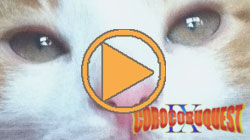
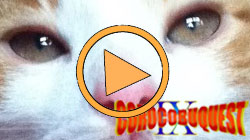
画像　ｙｎ

diff --git a/css/mobile.css b/css/mobile.css
@@ -6,6 +6,9 @@
 
 @media screen and (max-width:700px){
 /*nav*/
+	#container {
+		width: 100%;
+		}
 	nav {
 		width: 300px;
 		height: 130px;
@@ -29,7 +32,7 @@
 	.h1-title {
 		width: 100%;
 		margin-top: -100px;
-		background-size: cover;
+		background-size: 100%;
 	}
 /*キャラクターがふわっとしゅっと*/
 	.mainimgbox {
